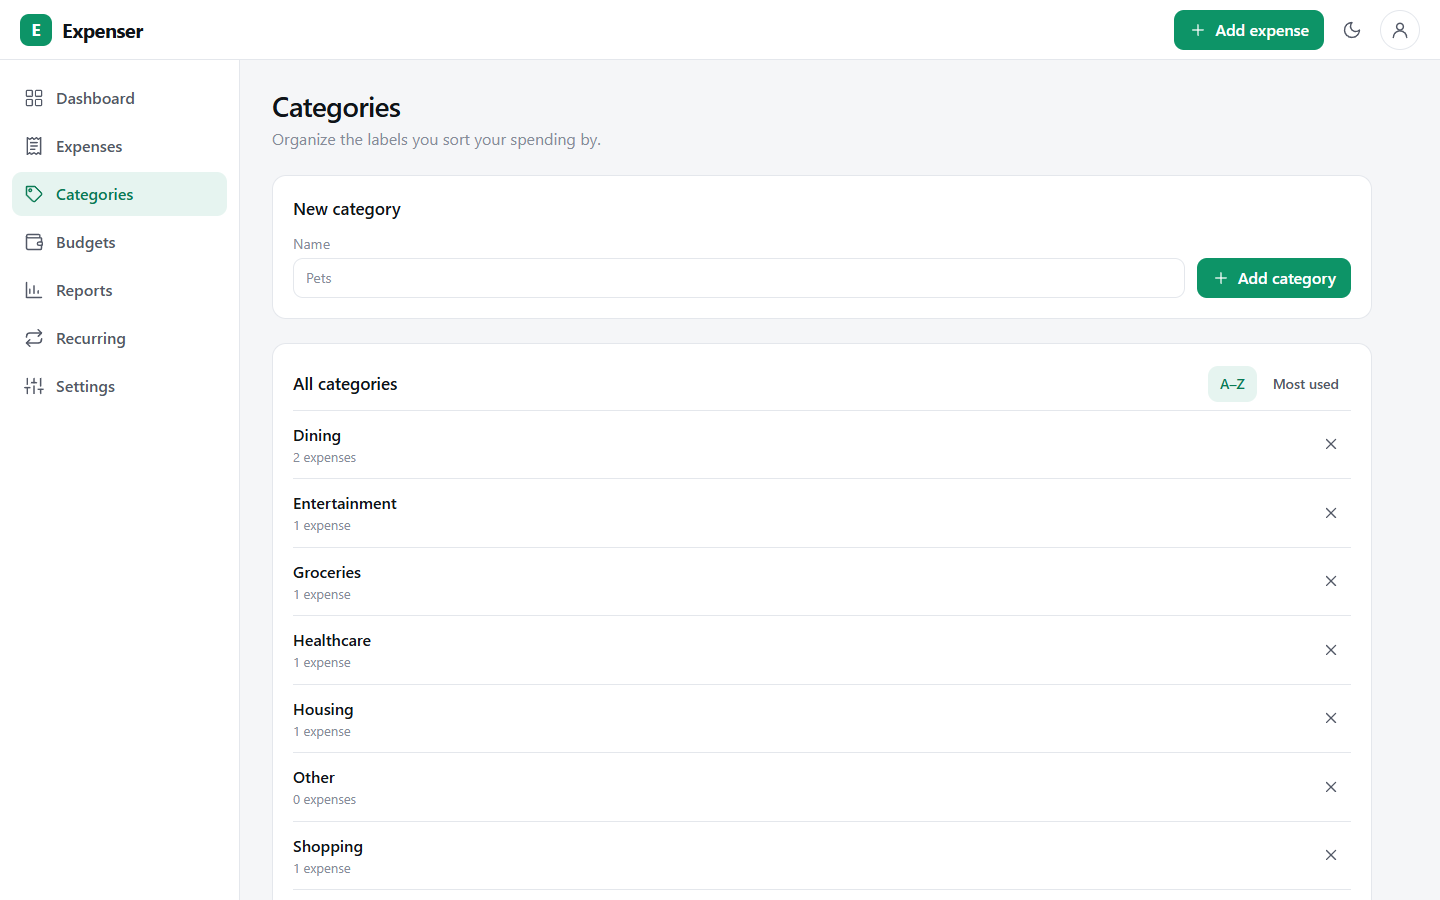
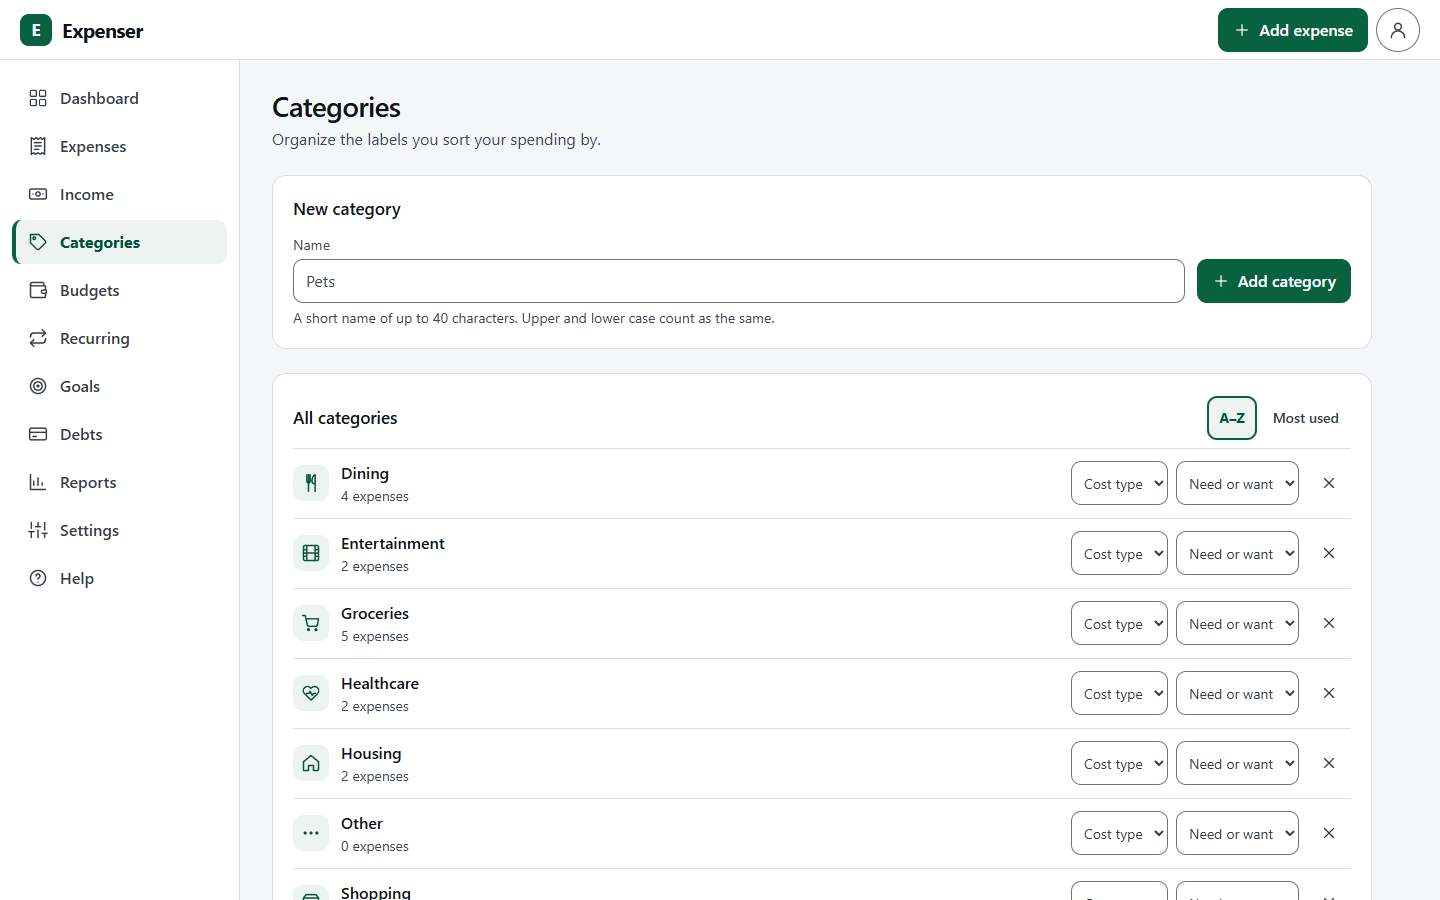
updated readme_md

diff --git a/README.md b/README.md
@@ -18,15 +18,27 @@ Then open <http://localhost:5181>. The compose file also runs the app in demo mo
 
 ## Screenshots
 
-**Dashboard** – this month's spending, budget left, top category and recent expenses.
+**Dashboard** – this month's spending, budget left, top category, income, savings rate and recent expenses.
 
 ![Dashboard](docs/screenshots/dashboard.png)
+
+**Budgets** – pick a budgeting method (category limits, percentage split, zero-based or pay yourself first) and see how spending compares with the pace of the month.
+
+![Budgets](docs/screenshots/budgets.png)
+
+**Reports** – income, spending, net and savings rate month by month.
+
+![Reports](docs/screenshots/reports.png)
 
 **Categories** – create, sort and delete the labels you group spending by, each default with its own icon.
 
 ![Categories](docs/screenshots/categories.png)
 
-**Settings (dark theme)** – choose the language and display currency.
+**Help and glossary** – plain explanations of the financial words used in the app.
+
+![Help and glossary](docs/screenshots/help.png)
+
+**Settings (dark theme)** – choose the language, theme and display currency.
 
 ![Settings in dark theme](docs/screenshots/settings-dark.png)
 
